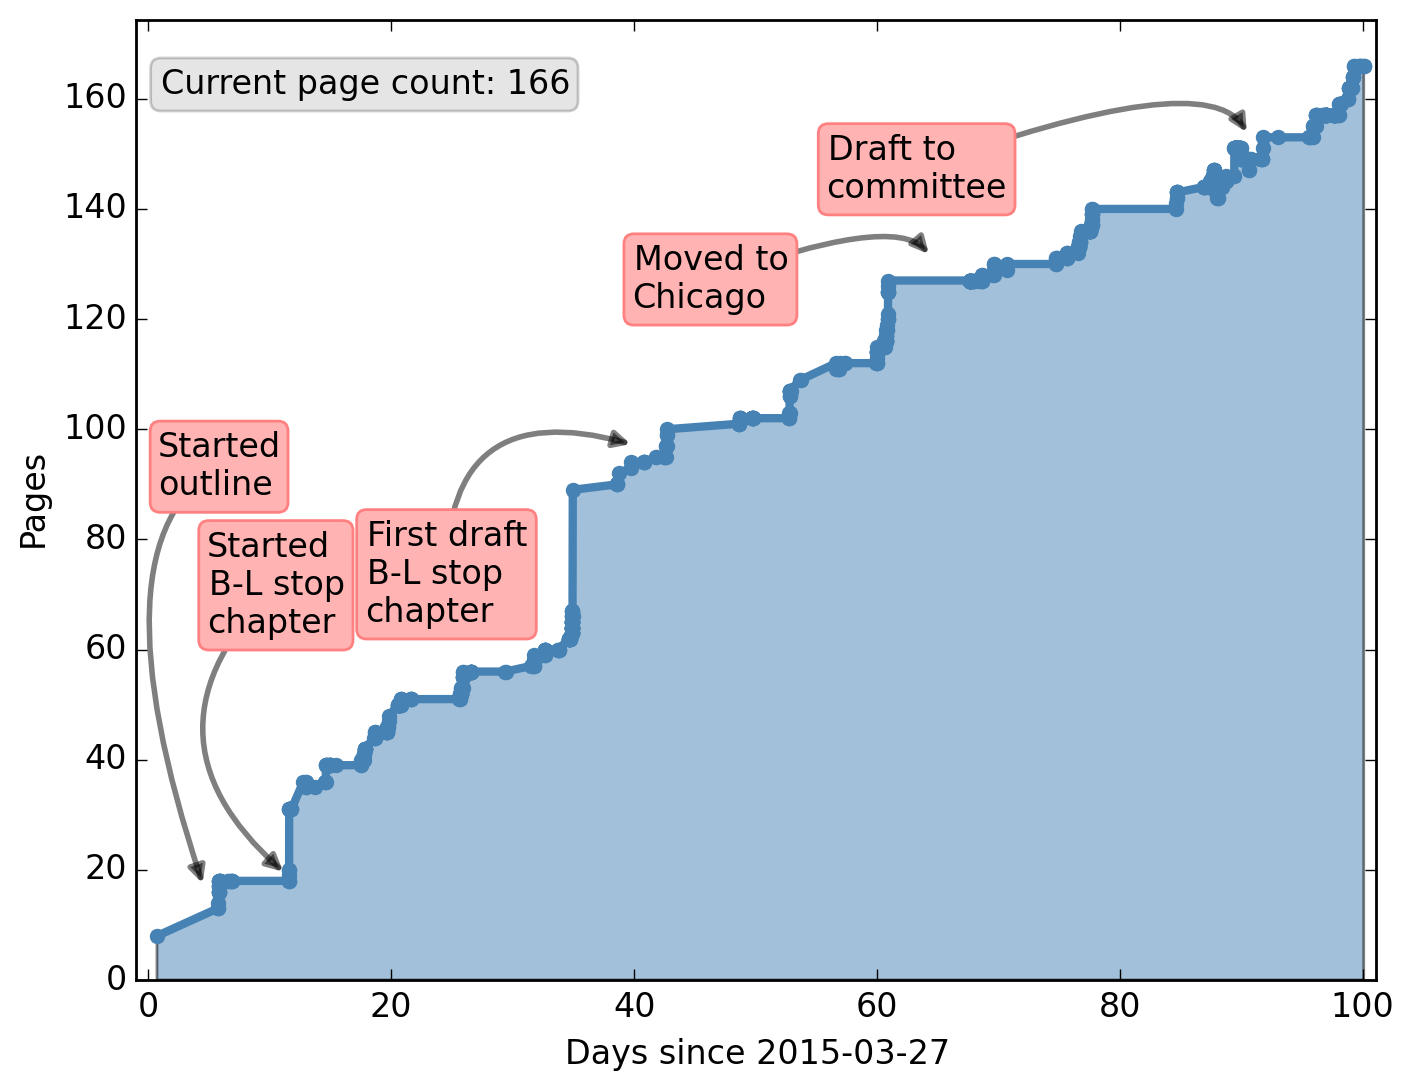
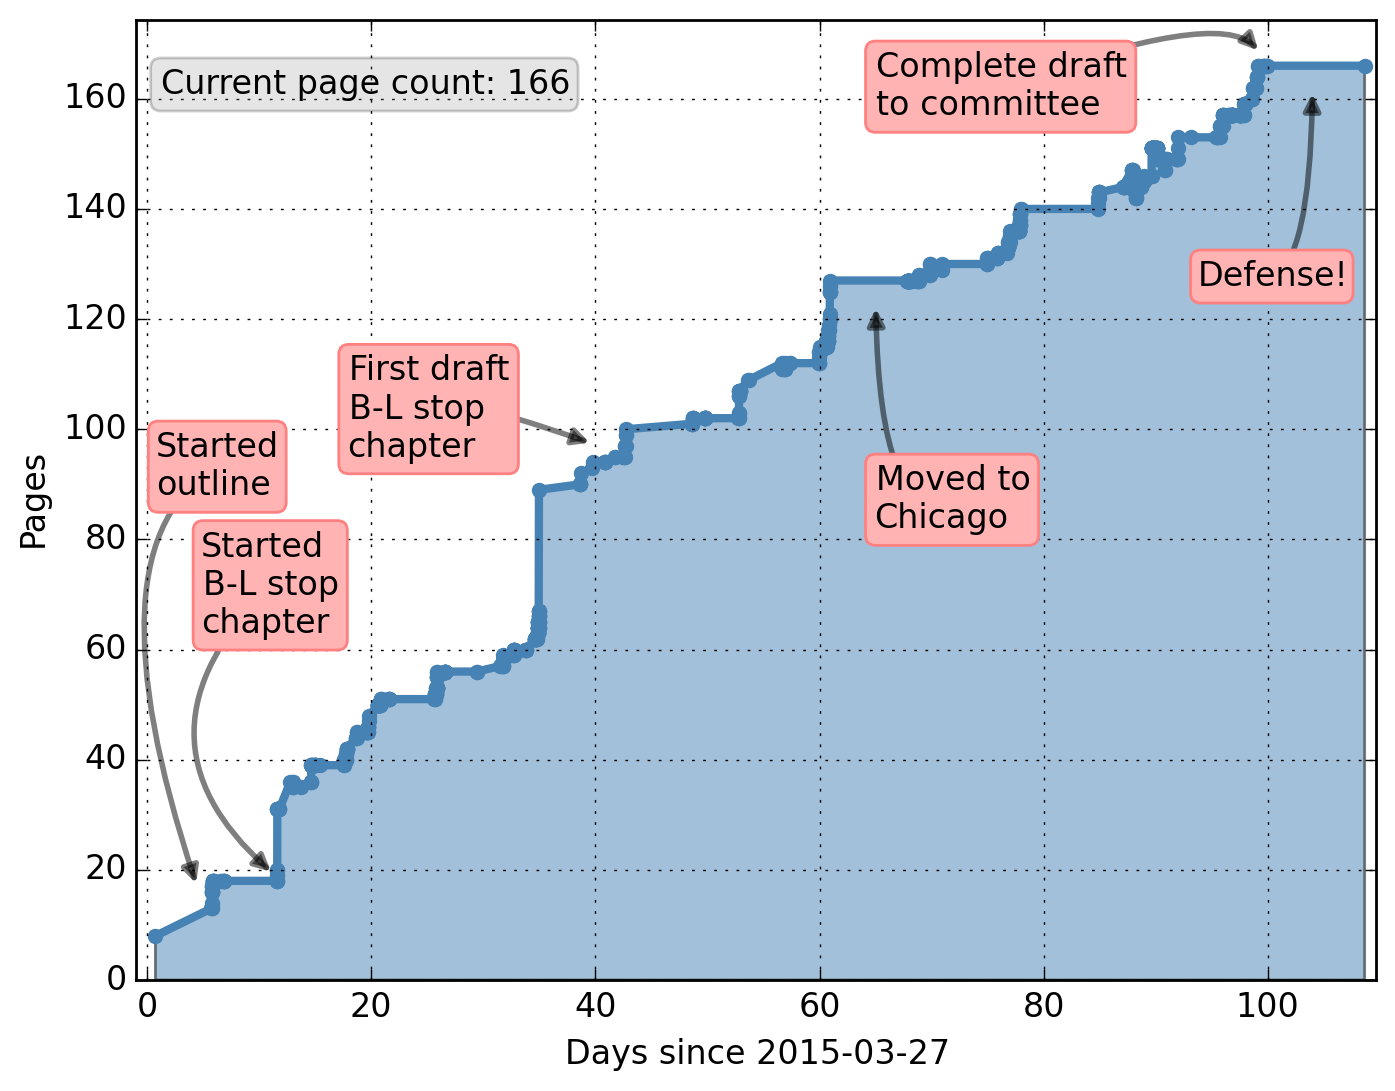
update page numbers plot with defense

diff --git a/scripts/plot_page_numbers.py b/scripts/plot_page_numbers.py
@@ -95,7 +95,7 @@ draw_annotation('Started\nB-L stop\nchapter',
 
 draw_annotation('First draft\nB-L stop\nchapter',
                 date_string='May 8 2015',
-                offset_x=-25, offset_y=-30,
+                offset_x=-25, offset_y=0,
                 shrinkB=15, angle_a = 90, angle_b=160)
 
 # draw_annotation('Interview!\nCivis - exam',
@@ -120,7 +120,7 @@ draw_annotation('First draft\nB-L stop\nchapter',
 
 draw_annotation('Moved to\nChicago',
                 date_string='May 30 2015',
-                offset_x=-25, offset_y=-5,
+                offset_x=0, offset_y=-45,
                 shrinkB=10, angle_a = 20, angle_b=90)
 
 # draw_annotation('Interview!\nCivis - on site',
@@ -133,9 +133,19 @@ draw_annotation('Moved to\nChicago',
 #                 offset_x=-25, offset_y=-5,
 #                 shrinkB=10, angle_a = 20, angle_b=90)
 
-draw_annotation('Draft to\ncommittee',
-                date_string='Jun 25 2015',
+# draw_annotation('Draft to\ncommittee',
+#                 date_string='Jun 25 2015',
+#                 offset_x=-55, offset_y=-30,
+#                 shrinkB=10, angle_a = 20, angle_b=220)
+
+draw_annotation('Complete draft\nto committee',
+                date_string='Jul 4 2015',
                 offset_x=-35, offset_y=-7,
+                shrinkB=10, angle_a = 20, angle_b=90)
+
+draw_annotation('Defense!',
+                date_string='Jul 8 2015',
+                offset_x=-10, offset_y=-40,
                 shrinkB=10, angle_a = 20, angle_b=90)
 
 

diff --git a/PageNumbers.md b/PageNumbers.md
@@ -743,3 +743,4 @@ Sat Jul 4 15:32:48 EDT 2015 , 166
 Sat Jul 4 21:47:26 EDT 2015 , 166
 Sat Jul 4 21:50:07 EDT 2015 , 166
 Sat Jul 4 21:53:03 EDT 2015 , 166
+Mon Jul 13 10:29:15 CDT 2015 , 166
